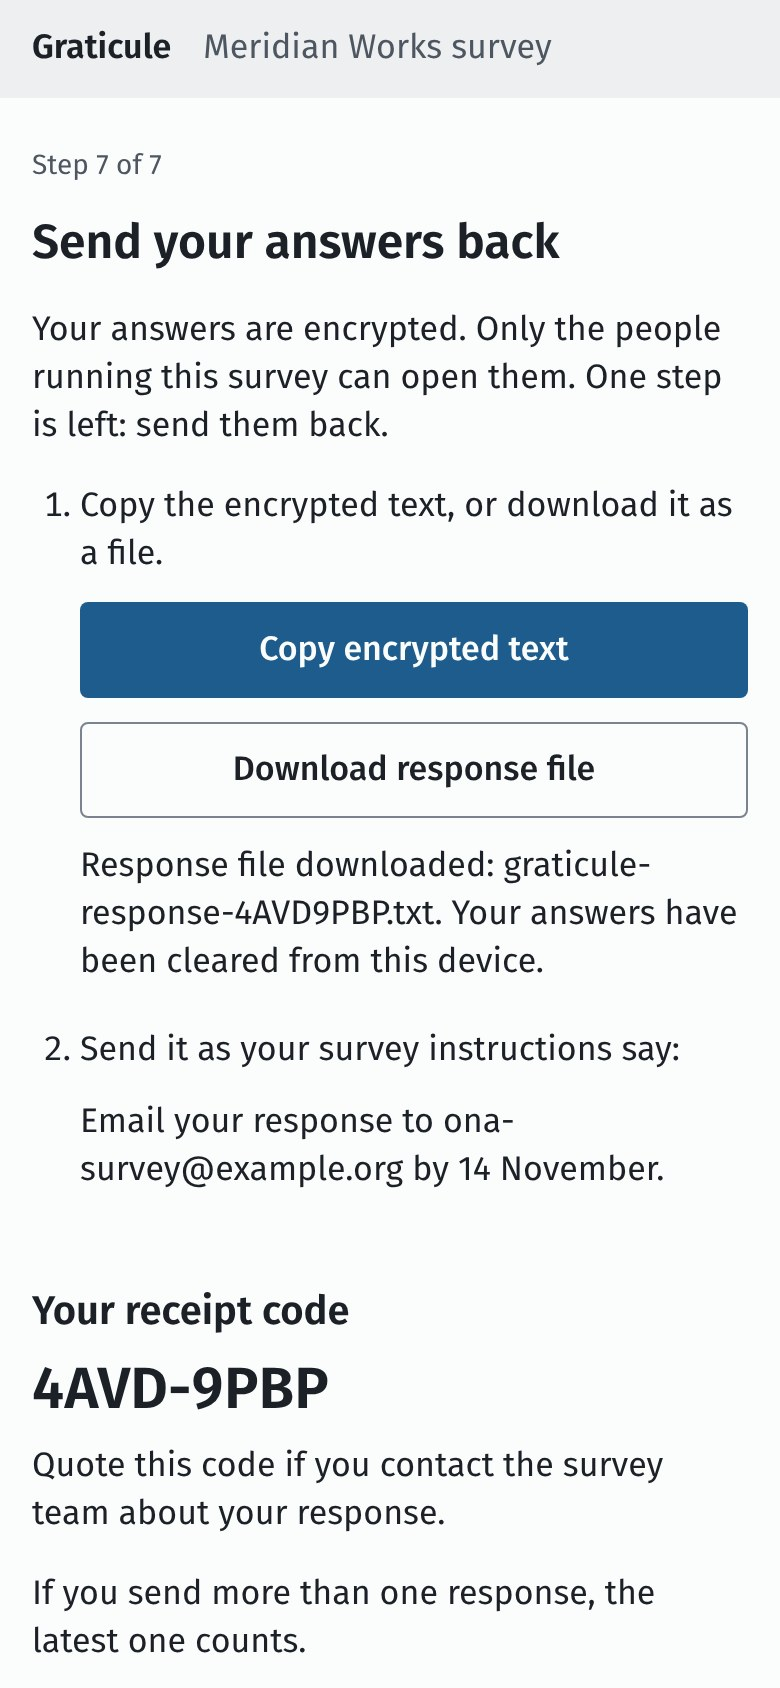
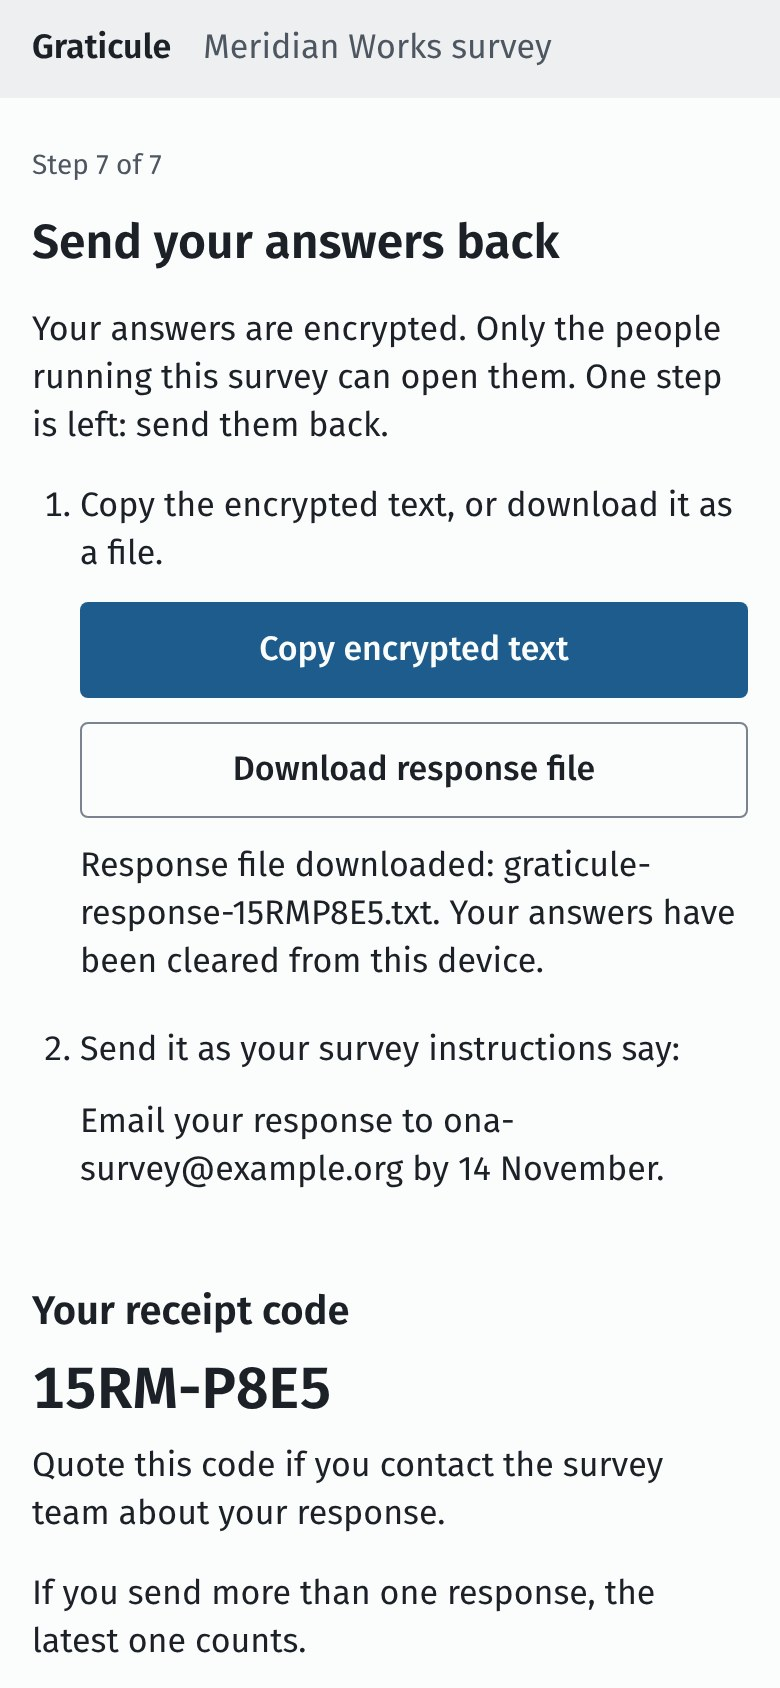
Give the anonymisation sweep a 60 s timeout; regenerate the guide (D140)
Claude-Session: https://claude.ai/code/session_01MDdNDfpd94nrawzbQs5K5J

Changed region(s): [[0.0308, 0.8009, 0.4308, 0.8318], [0.5846, 0.5237, 0.9538, 0.5545], [0.3077, 0.5237, 0.5538, 0.5545]]

diff --git a/tests/e2e/present.spec.ts b/tests/e2e/present.spec.ts
@@ -350,6 +350,8 @@ test('presentation: steps through saved views with captions, keys and Escape, le
 });
 
 test('anonymisation: no display name in the DOM or on the canvas in any view', async ({ page }) => {
+  // About 27 s alone, so close to the default 30 s that load tips it over (as D114).
+  test.setTimeout(60_000);
   await start(page);
   await loadDemo(page);
   await rightTab(page, 'Views').click();

diff --git a/CLAUDE.md b/CLAUDE.md
@@ -222,7 +222,7 @@ The owner also asked, as a personal preference, for the map's tie-strength thres
 
 | # | Date | Decision | Status | Where |
 |---|---|---|---|---|
-| D140 | 2026-10-22 | Session 1: defects A1, A2 and A4–A8 of the consultant review's Appendix A (A3 is session 3). **A1** The member-panel, insights, coverage and saved-views screenshots (the review named three; saved views had the same fault) were taken of the right column's 40 px rail: at 1440 × 900 the layout is compact and the panel is a drawer outside the rail's box. `guide.spec.ts` now shoots `#workspace-drawer`, checks it shows its panel and that the image is at least 280 px wide. survey-setup.jpg was a full-page shot of a window that scrolled to a blank area: a visually hidden label inside the Survey tab's scroll container was positioned against an ancestor outside it, so the document grew to 2,553 px. `.survey` is now `position: relative`, the window no longer scrolls, and the shot is of the window (1440 × 900), checked in the spec. **A2** `coveragePercent(rate, threshold)` in `copy/data.ts` gives a whole percentage unless rounding would reach or cross the threshold, then one decimal place rounded away from it (79.6 % reads "79.6%", 79.98 % "79.9%"); used for coverage and per-rater rates in the top bar, status line, map note, presentation, insights panel, Coverage panel, survey dashboard and report. A unit test sweeps every whole threshold. **A4** The legend stopped at a reserve of two zoom-button widths, but in the compact layout the zoom group also holds Lasso select (and, with pins, "Release pinned members"). MapView measures the distance from the map's right edge to the zoom group's left edge and sets `--map-tools-end` (whole pixels times `--line-width`, as D31); the full and condensed legends stop `s-4` short of it, drawer open or closed. `audit.spec.ts` checks every tool against the legend at 1280 × 720, 1366 × 768 and 1440 × 900, condensed and full, drawer open and closed (18 overlaps before). **A5** `CoverageResult.belowThreshold` requires at least one rating; until then the top bar reads "No ratings yet" (graphite, a note), the Coverage panel says coverage is measured once ratings exist and flags no rater, and the report's coverage section says the same. Spec §6 and method notes §11 amended. **A6** While Members or Survey is the centre tab, the left column shows Layers only, under the line "Weights and map settings are on the Map tab." **A7** The report's key-metrics table shows "–" for separate parts, largest part, communities, modularity and centralisation of bridging in each negative sub-layer's column, with a note; ties, density, reciprocity, clustering and degree centralisation stay. The CSV exports are unchanged. **A8** Under "Where the ratings came from", the report explains "Not recorded" (ratings with no recorded source: older versions, other tools, the demo). User guide regenerated (`GUIDE_DIR=docs/user-guide`) | Approved (owner, build plan session 1) | `src/ui/copy/data.ts`, `src/data/coverage.ts`, `src/ui/views/`, `src/ui/export/report.ts`, `src/styles/`, `tests/e2e/guide.spec.ts`, `audit.spec.ts`, `docs/user-guide/` |
+| D140 | 2026-10-22 | Session 1: defects A1, A2 and A4–A8 of the consultant review's Appendix A (A3 is session 3). **A1** The member-panel, insights, coverage and saved-views screenshots (the review named three; saved views had the same fault) were taken of the right column's 40 px rail: at 1440 × 900 the layout is compact and the panel is a drawer outside the rail's box. `guide.spec.ts` now shoots `#workspace-drawer`, checks it shows its panel and that the image is at least 280 px wide. survey-setup.jpg was a full-page shot of a window that scrolled to a blank area: a visually hidden label inside the Survey tab's scroll container was positioned against an ancestor outside it, so the document grew to 2,553 px. `.survey` is now `position: relative`, the window no longer scrolls, and the shot is of the window (1440 × 900), checked in the spec. **A2** `coveragePercent(rate, threshold)` in `copy/data.ts` gives a whole percentage unless rounding would reach or cross the threshold, then one decimal place rounded away from it (79.6 % reads "79.6%", 79.98 % "79.9%"); used for coverage and per-rater rates in the top bar, status line, map note, presentation, insights panel, Coverage panel, survey dashboard and report. A unit test sweeps every whole threshold. **A4** The legend stopped at a reserve of two zoom-button widths, but in the compact layout the zoom group also holds Lasso select (and, with pins, "Release pinned members"). MapView measures the distance from the map's right edge to the zoom group's left edge and sets `--map-tools-end` (whole pixels times `--line-width`, as D31); the full and condensed legends stop `s-4` short of it, drawer open or closed. `audit.spec.ts` checks every tool against the legend at 1280 × 720, 1366 × 768 and 1440 × 900, condensed and full, drawer open and closed (18 overlaps before). **A5** `CoverageResult.belowThreshold` requires at least one rating; until then the top bar reads "No ratings yet" (graphite, a note), the Coverage panel says coverage is measured once ratings exist and flags no rater, and the report's coverage section says the same. Spec §6 and method notes §11 amended. **A6** While Members or Survey is the centre tab, the left column shows Layers only, under the line "Weights and map settings are on the Map tab." **A7** The report's key-metrics table shows "–" for separate parts, largest part, communities, modularity and centralisation of bridging in each negative sub-layer's column, with a note; ties, density, reciprocity, clustering and degree centralisation stay. The CSV exports are unchanged. **A8** Under "Where the ratings came from", the report explains "Not recorded" (ratings with no recorded source: older versions, other tools, the demo). User guide regenerated (`GUIDE_DIR=docs/user-guide`). `present.spec.ts`'s anonymisation sweep, about 27 s alone and over 30 s with three workers, has a 60 s timeout (as D114) | Approved (owner, build plan session 1) | `src/ui/copy/data.ts`, `src/data/coverage.ts`, `src/ui/views/`, `src/ui/export/report.ts`, `src/styles/`, `tests/e2e/guide.spec.ts`, `audit.spec.ts`, `docs/user-guide/` |
 
 ## Respondent mode (spec §15)
 
